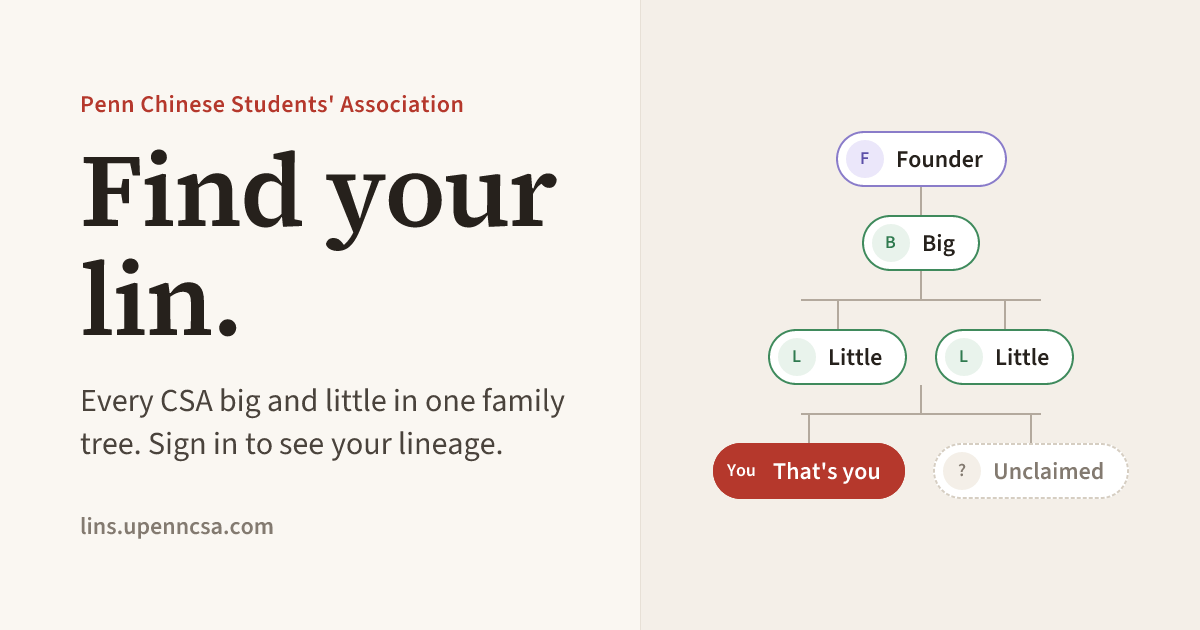
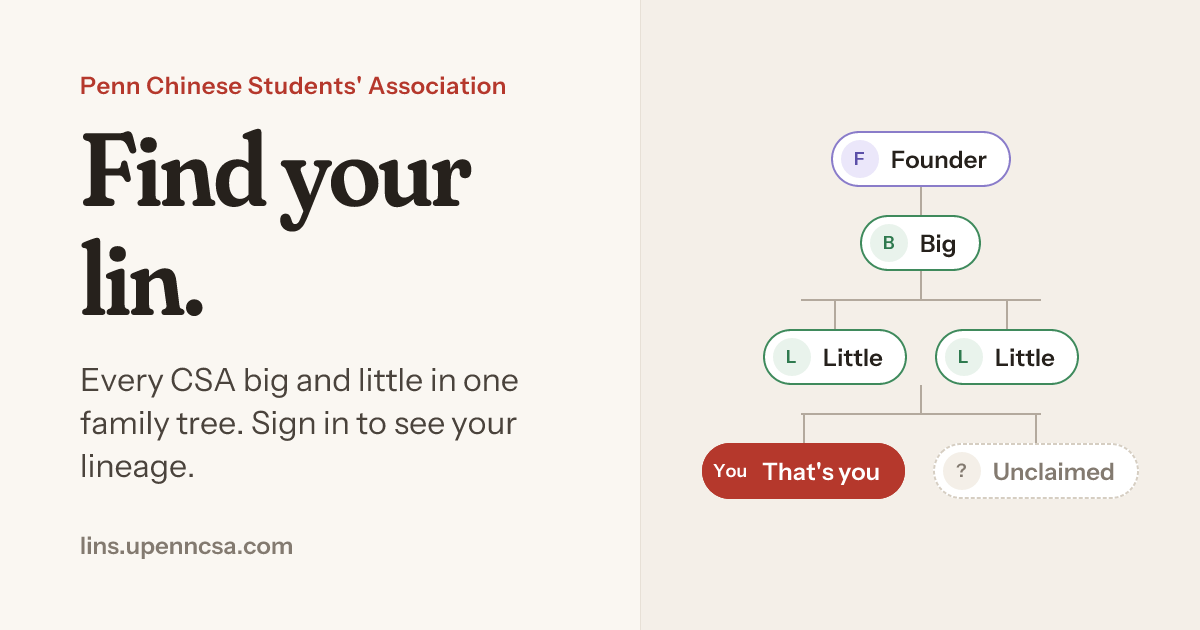
Set headings in Fraunces and everything else in Instrument Sans
Replaces Source Serif 4 / Source Sans 3. Fraunces loads with its SOFT and
opsz axes and the heading class dials SOFT to 100, so the serif reads warm
rather than editorial at display sizes. The social card script fetches the
same faces (Fraunces as a static soft, display-size instance) and the card
is regenerated to match. Design README updated.

diff --git a/web/src/app/layout.tsx b/web/src/app/layout.tsx
@@ -1,11 +1,14 @@
 import type { Metadata, Viewport } from 'next'
-import { Source_Sans_3, Source_Serif_4 } from 'next/font/google'
+import { Fraunces, Instrument_Sans } from 'next/font/google'
 import './globals.css'
 import { ViewerProvider } from '@/lib/viewer'
 import { Analytics } from '@vercel/analytics/next'
 
-const sourceSans = Source_Sans_3({ subsets: ['latin'], weight: ['400', '500', '600'], style: ['normal', 'italic'], variable: '--font-source-sans' })
-const sourceSerif = Source_Serif_4({ subsets: ['latin'], weight: ['600'], variable: '--font-source-serif' })
+// Both are variable fonts. Fraunces also carries its optical-size and "soft"
+// axes: the heading class rounds it off with SOFT, so it reads warm rather
+// than editorial at every size.
+const instrumentSans = Instrument_Sans({ subsets: ['latin'], weight: 'variable', style: ['normal', 'italic'], variable: '--font-instrument-sans' })
+const fraunces = Fraunces({ subsets: ['latin'], weight: 'variable', axes: ['SOFT', 'opsz'], variable: '--font-fraunces' })
 
 const description = "Big/little family trees of the Penn Chinese Students' Association"
 
@@ -25,7 +28,7 @@ export const viewport: Viewport = { themeColor: '#faf7f2' }
 
 export default function RootLayout({ children }: { children: React.ReactNode }) {
   return (
-    <html lang="en" className={`${sourceSans.variable} ${sourceSerif.variable}`}>
+    <html lang="en" className={`${instrumentSans.variable} ${fraunces.variable}`}>
       <body className="min-h-dvh bg-paper font-sans text-ink antialiased">
         <ViewerProvider>{children}</ViewerProvider>
         <Analytics />

diff --git a/web/src/app/globals.css b/web/src/app/globals.css
@@ -18,8 +18,8 @@
   --color-success: #2f7a4f;
   --color-success-tint: #e9f3ec;
 
-  --font-sans: var(--font-source-sans), ui-sans-serif, system-ui, sans-serif;
-  --font-serif: var(--font-source-serif), Georgia, "Times New Roman", serif;
+  --font-sans: var(--font-instrument-sans), ui-sans-serif, system-ui, sans-serif;
+  --font-serif: var(--font-fraunces), Georgia, "Times New Roman", serif;
 
   /* Depth comes from layered transparent shadows, which sit on any surface;
      borders are kept for structure (dividers, inputs) and state (selection). */
@@ -76,9 +76,12 @@
   .card {
     @apply rounded-lg bg-white shadow-border;
   }
-  /* Headings are set in the serif; everything else in the sans. */
+  /* Headings are set in the serif; everything else in the sans. Fraunces is
+     dialled fully soft so its serifs stay rounded at display sizes, and its
+     optical size follows the font size on its own. */
   .heading {
     @apply font-serif font-semibold text-balance text-ink;
+    font-variation-settings: 'SOFT' 100;
   }
   /* Small label above a field or a group. */
   .label {

diff --git a/designs/README.md b/designs/README.md
@@ -26,12 +26,13 @@ hook already restricts to `upenn.edu` accounts.
 
 ## Style standards (apply everywhere in `web/`)
 
-Plain, warm and readable. Paper-toned pages, warm grey ink, thin borders,
-a serif for headings and a humanist sans for everything else, and one red
-accent used where it means something: the primary action, links, selection,
-errors, and the small labels on the landing page. Nothing tilts, nothing
-casts an offset shadow, nothing is decoration for its own sake. Lin and
-class-year colours belong to nodes, avatars, dots and chips, never to
+Plain, warm and readable. Paper-toned pages, warm grey ink, thin borders, a
+soft serif (Fraunces) for headings and a humanist sans (Instrument Sans) for
+everything else, and one red accent used where it means something: the
+primary action, links, selection, errors, and the small labels on the landing
+page. Nothing tilts, nothing casts an offset shadow, nothing is decoration
+for its own sake. Lin and class-year colours belong to nodes, avatars, dots
+and chips, never to
 buttons.
 
 ### Tokens
@@ -57,26 +58,28 @@ utilities (`text-ink`, `border-line`, `bg-surface-muted`, `bg-accent`).
   --color-success: #2f7a4f;
   --color-success-tint: #e9f3ec;
 
-  --font-sans: var(--font-source-sans), ui-sans-serif, system-ui, sans-serif;
-  --font-serif: var(--font-source-serif), Georgia, "Times New Roman", serif;
+  --font-sans: var(--font-instrument-sans), ui-sans-serif, system-ui, sans-serif;
+  --font-serif: var(--font-fraunces), Georgia, "Times New Roman", serif;
 }
 ```
 
-Fonts load with `next/font/google` in `layout.tsx`: Source Serif 4
-(weight 600) for headings and Source Sans 3 (400, 500, 600, with italics)
-for everything else.
+Fonts load with `next/font/google` in `layout.tsx`: Fraunces (variable, with
+its `SOFT` and `opsz` axes) for headings and Instrument Sans (variable, with
+italics) for everything else. The `heading` class sets `SOFT` to 100, so the
+serif stays rounded and warm at display sizes; optical size follows the font
+size automatically.
 
 ### Type
 
 | Role | Face | Size / weight | Notes |
 |---|---|---|---|
-| Page title (landing) | Source Serif 4 | 36 / 48 on desktop, 600 | `heading` class |
-| Section heading | Source Serif 4 | 24 / 30, 600 | `heading` |
-| Card or panel heading | Source Serif 4 | 14 / 16 / 18, 600 | `heading text-sm` and up |
-| Body | Source Sans 3 | 16 / 400 (landing), 14 / 400 (app) | colour `ink-body` |
-| Control | Source Sans 3 | 14 / 500 | buttons, tabs, menu items |
-| Secondary | Source Sans 3 | 12 / 400 | colour `ink-muted` |
-| Label | Source Sans 3 | 12 / 500 | `label` class, normal case, `ink-muted` (accent on the landing page) |
+| Page title (landing) | Fraunces | 36 / 48 on desktop, 600 | `heading` class |
+| Section heading | Fraunces | 24 / 30, 600 | `heading` |
+| Card or panel heading | Fraunces | 14 / 16 / 18, 600 | `heading text-sm` and up |
+| Body | Instrument Sans | 16 / 400 (landing), 14 / 400 (app) | colour `ink-body` |
+| Control | Instrument Sans | 14 / 500 | buttons, tabs, menu items |
+| Secondary | Instrument Sans | 12 / 400 | colour `ink-muted` |
+| Label | Instrument Sans | 12 / 500 | `label` class, normal case, `ink-muted` (accent on the landing page) |
 
 Regular weight for reading, medium for controls, semibold serif for headings.
 No uppercase tracking.
